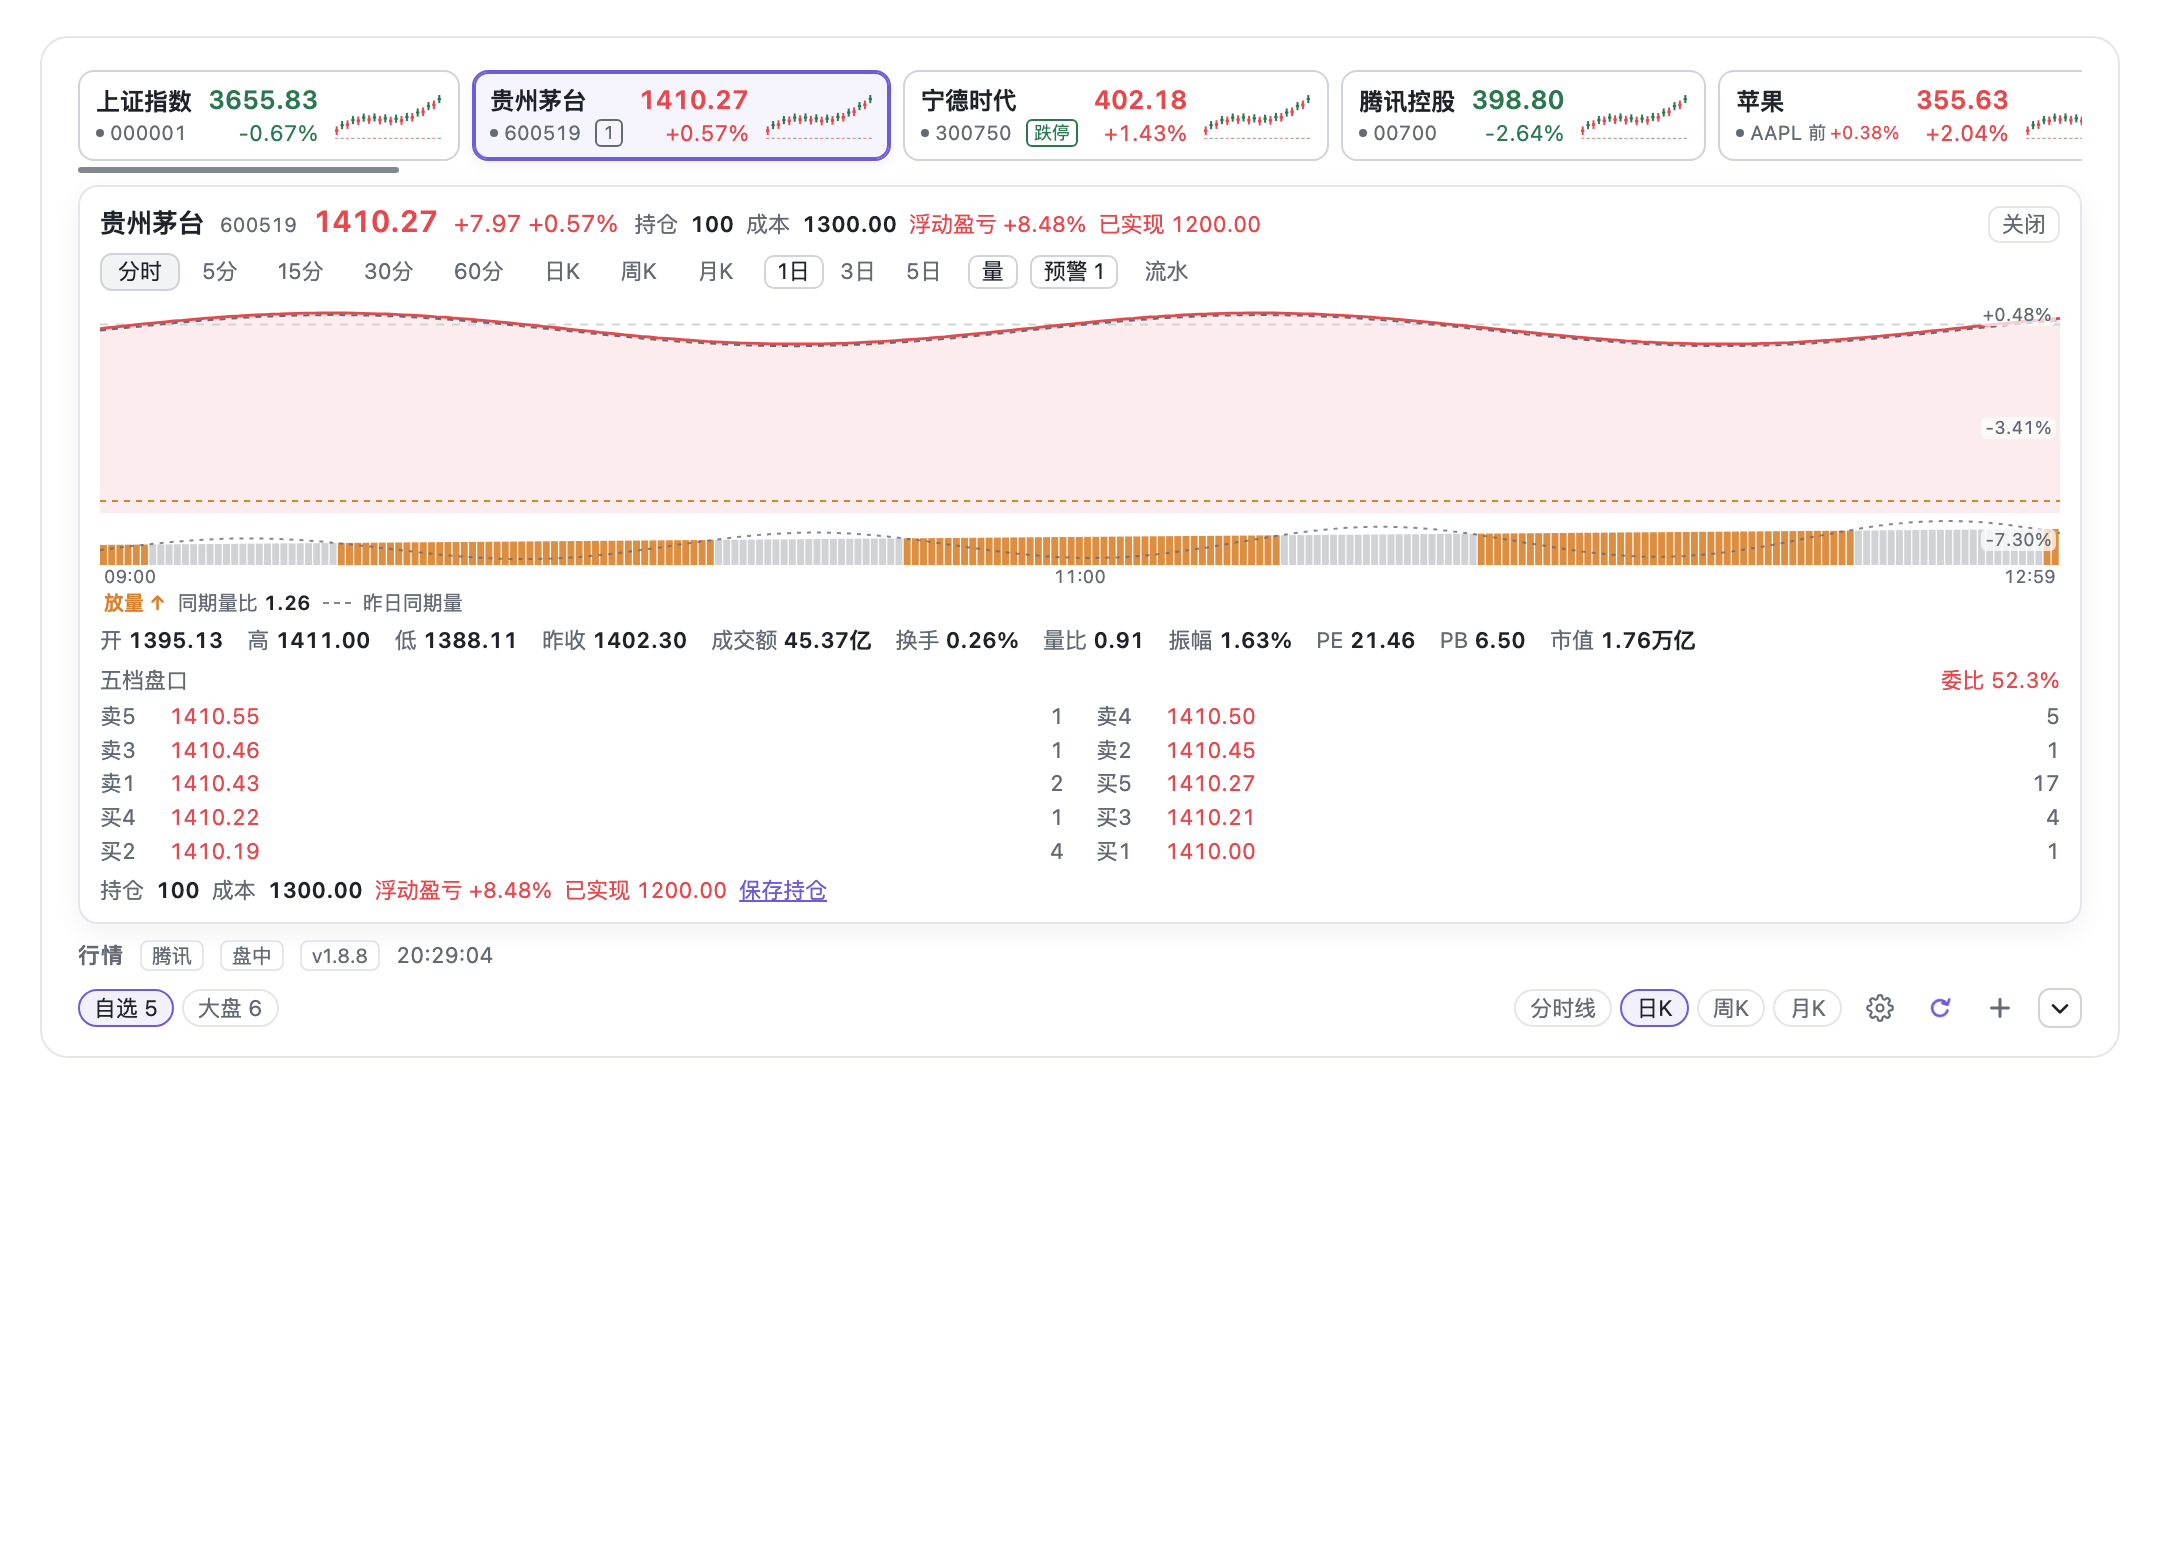
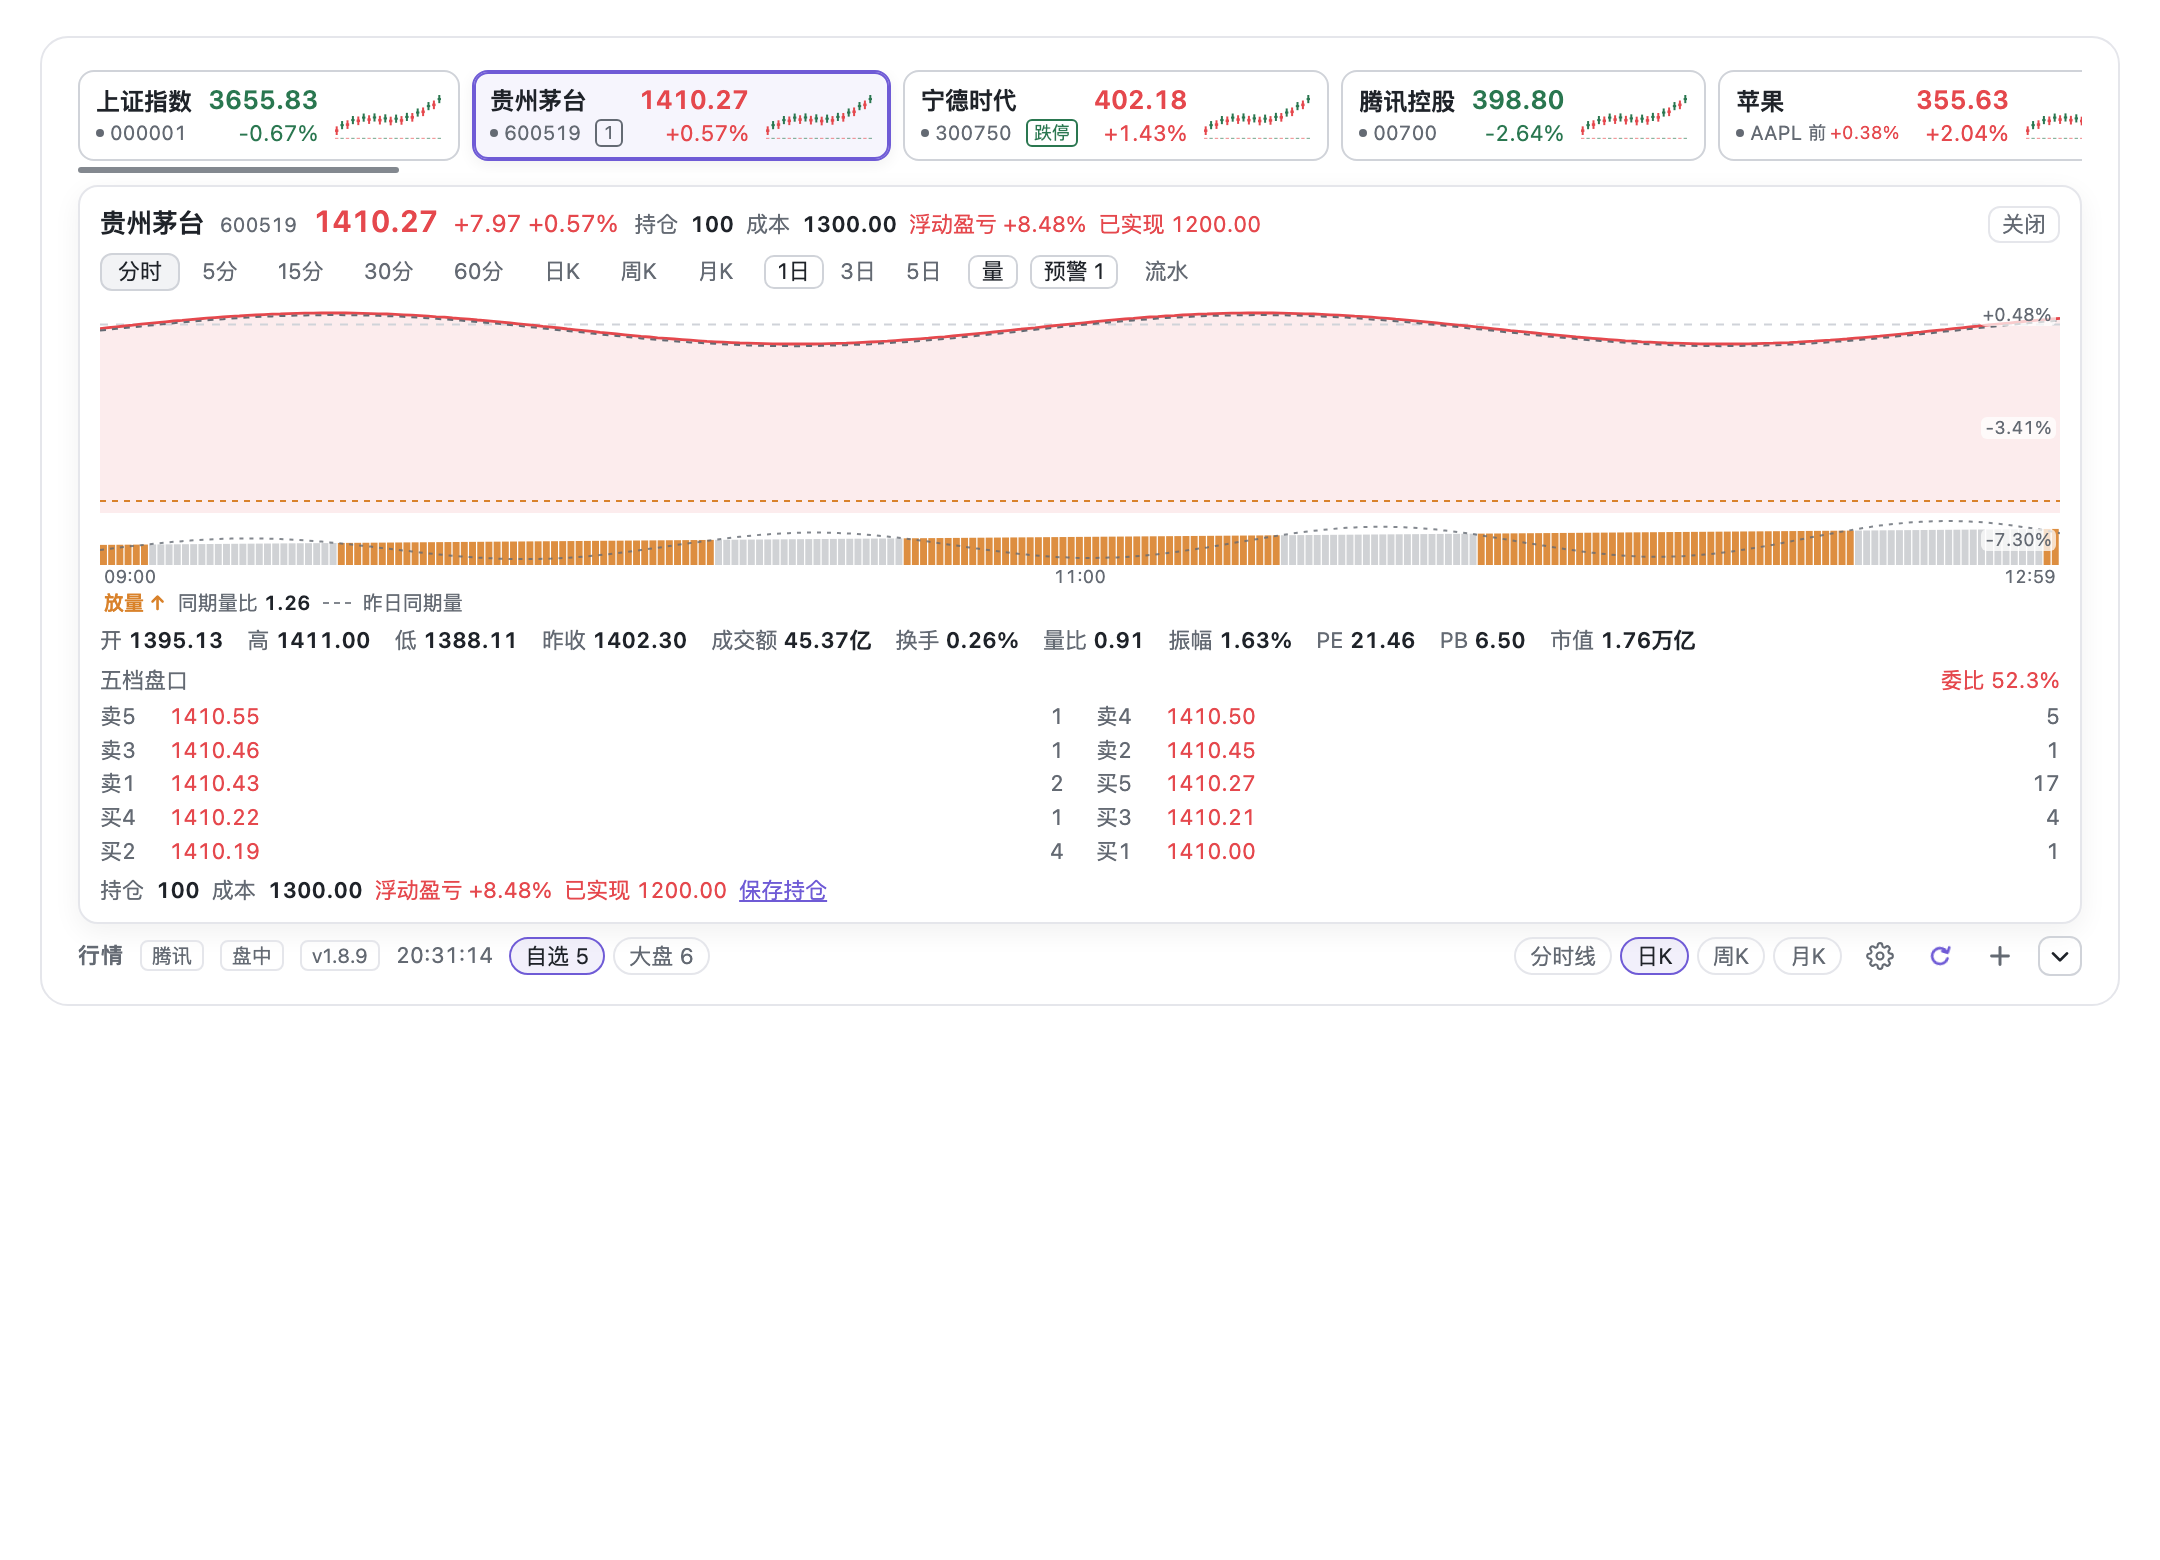
style(client): put the status row on the footer line (1.8.9)
The strip is now cards on top followed by one control line: the title, source,
session, build and time, then the group pills, a flexible gap, and the
mini-chart pills/icons pinned right. The status block can shrink/wrap internally
on narrow widths; the action buttons stay put and the dock remains full width.

- Screenshots refreshed. 81 tests.

Local commit only; not pushed.

diff --git a/client.js b/client.js
@@ -16,7 +16,7 @@ window.__ModuleLoader__.load({
     const { useCallback, useEffect, useMemo, useRef, useState } = React
 
     const NS = 'stockTicker'
-    const BUILD = 'v1.8.8'
+    const BUILD = 'v1.8.9'
     const ENDPOINT = '/dsh-stock-ticker'
     const COLLAPSE_KEY = 'dsh-stock-ticker:collapsed'
     const STYLE_ID = 'stock-ticker'
@@ -380,7 +380,8 @@ window.__ModuleLoader__.load({
   display: flex;
   align-items: center;
   gap: 8px;
-  flex-wrap: wrap;
+  flex: 0 1 auto;
+  min-width: 0;
   min-height: 20px;
   color: var(--dsw-alias-label-secondary);
 }
@@ -3709,35 +3710,35 @@ window.__ModuleLoader__.load({
         variant === 'dock' && collapsed ? null : body,
         h(
           'div',
-          { className: 'dshst-head' },
+          { className: 'dshst-foot' },
           h(
             'div',
-            { className: 'dshst-headTop' },
-            h('span', { className: 'dshst-title' }, t('title')),
-          data?.source
-            ? h(
-                'span',
-                { className: 'dshst-chip' },
-                data.source === 'sina' ? t('sourceSina') : data.source === 'eastmoney' ? t('sourceEastmoney') : t('sourceTencent'),
-              )
-            : null,
-          data?.session ? h('span', { className: 'dshst-chip' }, sessionLabel(t, data.session)) : null,
-          h('span', { className: 'dshst-chip', title: 'stock-ticker build' }, BUILD),
-          data?.updatedAt ? h('span', { className: 'dshst-meta' }, formatClock(data.updatedAt)) : null,
-          error && data
-            ? h(
-                'span',
-                { className: 'dshst-meta dshst-error', title: error },
-                `${t('staleData')} · `,
-                h('button', { type: 'button', className: 'dshst-link', onClick: load }, t('retry')),
-              )
-            : null,
-            notice ? h('span', { className: 'dshst-meta dshst-notice' }, notice) : null,
+            { className: 'dshst-head' },
+            h(
+              'div',
+              { className: 'dshst-headTop' },
+              h('span', { className: 'dshst-title' }, t('title')),
+            data?.source
+              ? h(
+                  'span',
+                  { className: 'dshst-chip' },
+                  data.source === 'sina' ? t('sourceSina') : data.source === 'eastmoney' ? t('sourceEastmoney') : t('sourceTencent'),
+                )
+              : null,
+            data?.session ? h('span', { className: 'dshst-chip' }, sessionLabel(t, data.session)) : null,
+            h('span', { className: 'dshst-chip', title: 'stock-ticker build' }, BUILD),
+            data?.updatedAt ? h('span', { className: 'dshst-meta' }, formatClock(data.updatedAt)) : null,
+            error && data
+              ? h(
+                  'span',
+                  { className: 'dshst-meta dshst-error', title: error },
+                  `${t('staleData')} · `,
+                  h('button', { type: 'button', className: 'dshst-link', onClick: load }, t('retry')),
+                )
+              : null,
+              notice ? h('span', { className: 'dshst-meta dshst-notice' }, notice) : null,
+            ),
           ),
-        ),
-        h(
-          'div',
-          { className: 'dshst-foot' },
           groups.length > 1
           ? h(
               'span',

diff --git a/CHANGELOG.md b/CHANGELOG.md
@@ -497,3 +497,12 @@ Settings discoverability and the options the strip was missing.
   restores the previous width on unmount, so the cards and the footer always
   span the composer. The two-row/footer layout is unchanged.
 - Test: the dock is asserted to be full width. 81 tests.
+
+## 1.8.9 — 2026-11-13
+
+- Put the status row on the same line as the groups and actions: the strip is
+  now cards on top, then a single control line `行情 腾讯 盘中 v1.8.9 时间`,
+  the group pills, a flexible gap, and the mini-chart pills/icons on the right.
+  The status block shrinks and wraps internally on narrow widths while the
+  action buttons stay right-pinned and the dock stays full width.
+- Screenshots refreshed. 81 tests.

diff --git a/README.md b/README.md
@@ -2,7 +2,7 @@
 
 **中文** · [English](README.en.md)
 
-![version](https://img.shields.io/badge/version-1.8.8-blue)
+![version](https://img.shields.io/badge/version-1.8.9-blue)
 ![license](https://img.shields.io/badge/license-MIT-green)
 ![dsh](https://img.shields.io/badge/DSH-0.2.x-6f5bd6)
 ![data](https://img.shields.io/badge/data-Tencent%20%7C%20Sina%20%7C%20Eastmoney-orange)

diff --git a/README.en.md b/README.en.md
@@ -2,7 +2,7 @@
 
 [中文](README.md) · **English**
 
-![version](https://img.shields.io/badge/version-1.8.8-blue)
+![version](https://img.shields.io/badge/version-1.8.9-blue)
 ![license](https://img.shields.io/badge/license-MIT-green)
 ![dsh](https://img.shields.io/badge/DSH-0.2.x-6f5bd6)
 ![data](https://img.shields.io/badge/data-Tencent%20%7C%20Sina%20%7C%20Eastmoney-orange)
